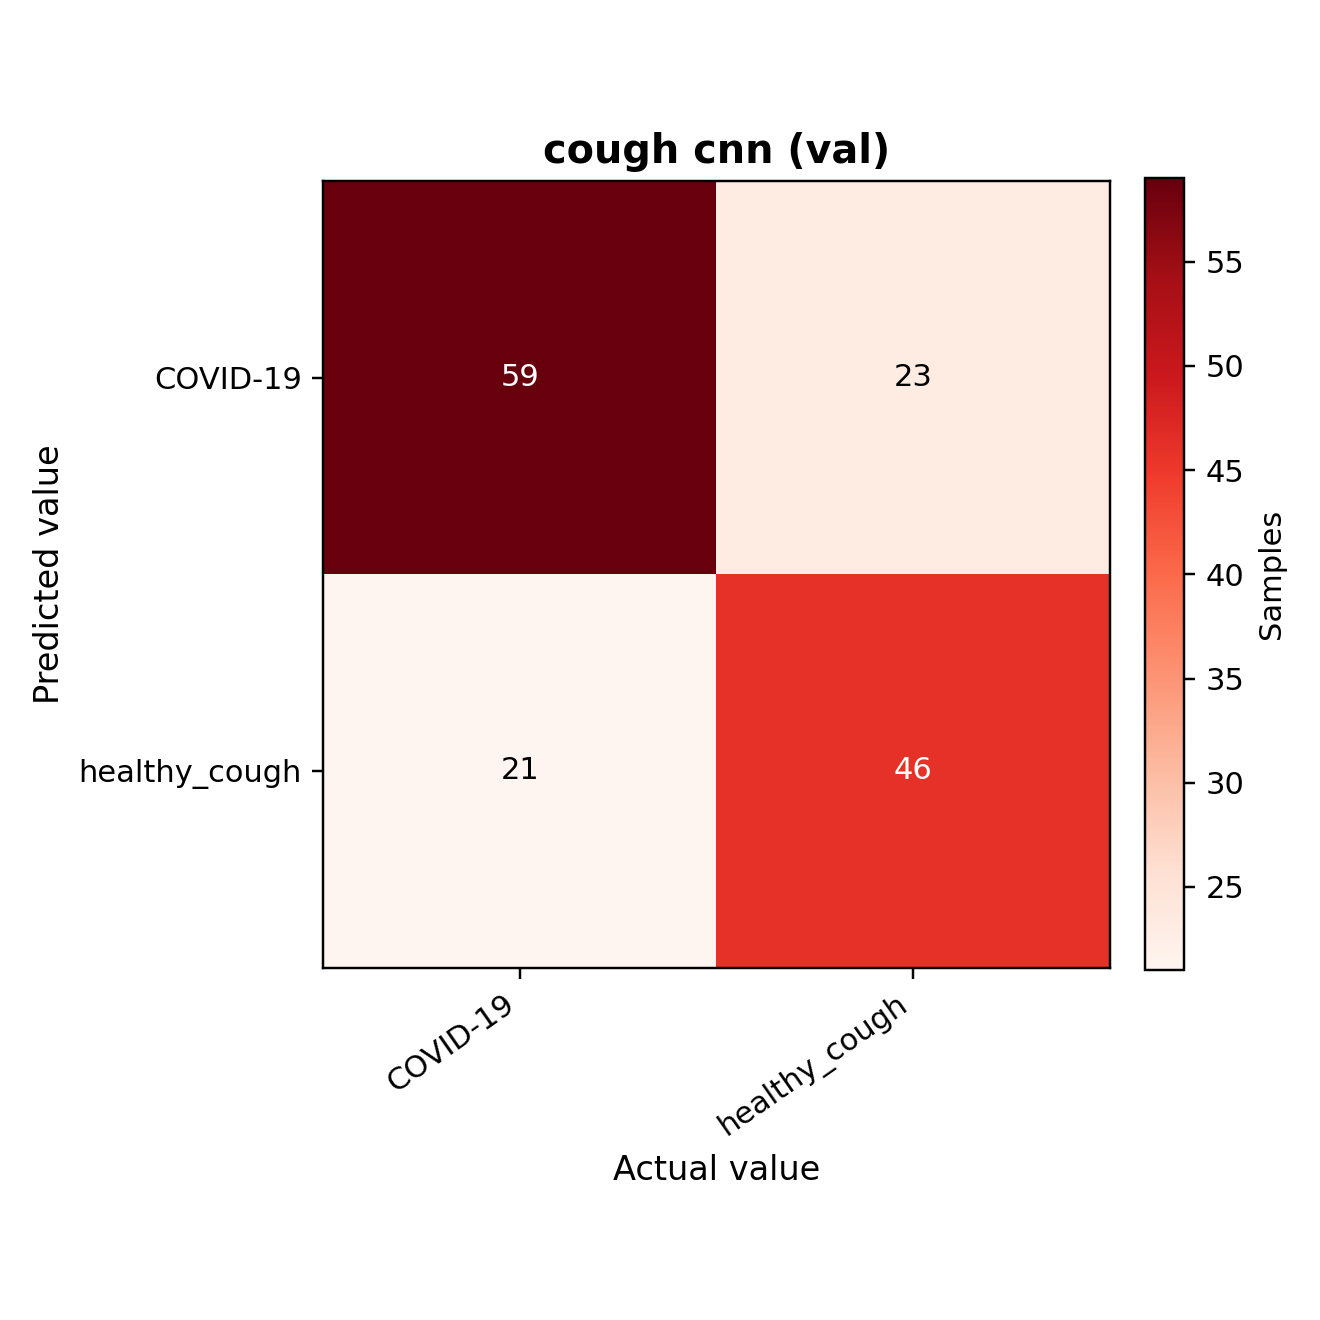
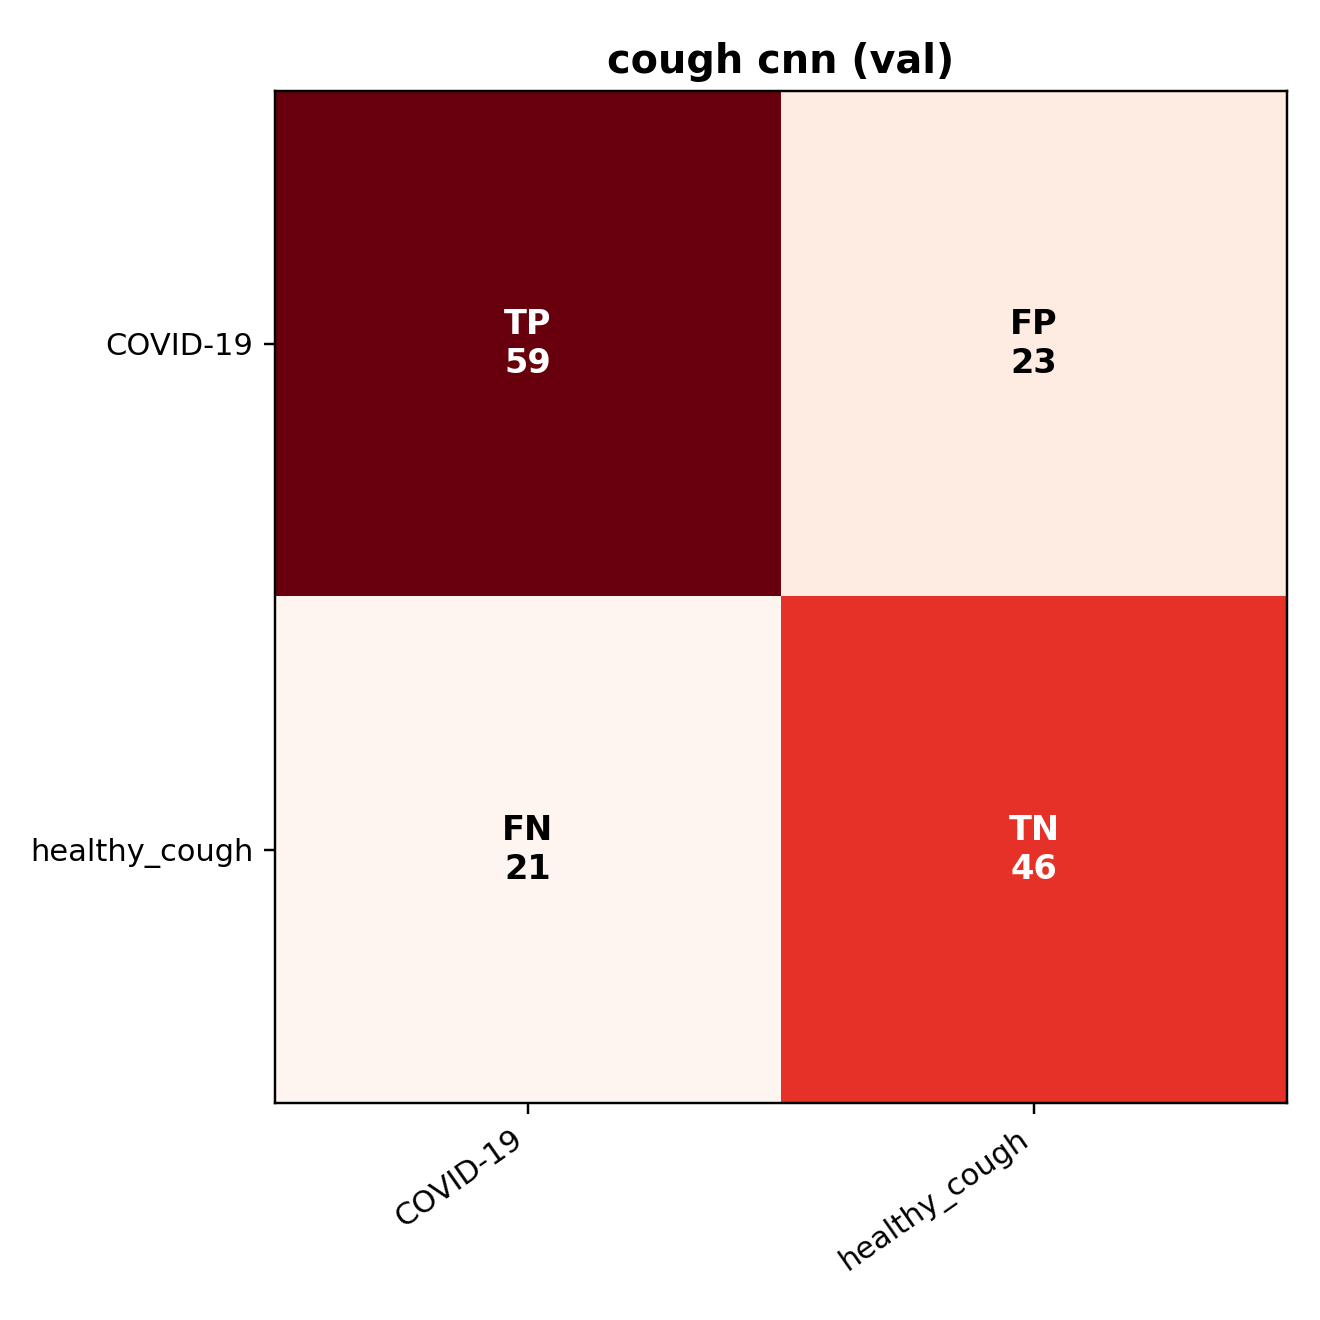
confusion matrix added

diff --git a/scripts/plot_confusion_matrices.py b/scripts/plot_confusion_matrices.py
@@ -56,6 +56,20 @@ def parse_args() -> argparse.Namespace:
         action="store_true",
         help="Display plots interactively in addition to saving.",
     )
+    parser.add_argument(
+        "--positive-label",
+        type=str,
+        default=None,
+        # help=(
+        #     "Positive class label for TP/FP/FN/TN annotations in binary matrices. "
+        #     "If omitted, the first label is used."
+        # ),
+    )
+    parser.add_argument(
+        "--no-binary-tags",
+        action="store_true",
+        help="Disable TP/FP/FN/TN annotations for binary matrices.",
+    )
     return parser.parse_args()
 
 
@@ -93,13 +107,19 @@ def render_matrix(
     output_path: Path,
     split: str,
     dpi: int,
+    positive_label: str | None,
+    show_binary_tags: bool,
 ) -> None:
     fig, ax = plt.subplots(figsize=figure_size(len(labels)))
     image = ax.imshow(matrix, cmap="Reds", interpolation="nearest")
 
     ax.set_title(f"{title} ({split})", fontsize=13, fontweight="bold")
-    ax.set_xlabel("Actual value", fontsize=11)
-    ax.set_ylabel("Predicted value", fontsize=11)
+    if len(labels) > 2:
+        ax.set_xlabel("Actual value", fontsize=11)
+        ax.set_ylabel("Predicted value", fontsize=11)
+    else:
+        ax.set_xlabel("")
+        ax.set_ylabel("")
 
     indices = np.arange(len(labels))
     ax.set_xticks(indices)
@@ -110,14 +130,32 @@ def render_matrix(
     max_value = matrix.max() if matrix.size else 0
     threshold = max_value / 2 if max_value > 0 else 0
 
+    is_binary = matrix.shape == (2, 2)
+    tag_map: dict[tuple[int, int], str] = {}
+    chosen_positive: str | None = None
+    if is_binary and show_binary_tags:
+        if positive_label is not None and positive_label in labels:
+            chosen_positive = positive_label
+        else:
+            chosen_positive = labels[0]
+        pos_idx = labels.index(chosen_positive)
+        neg_idx = 1 - pos_idx
+        tag_map = {
+            (pos_idx, pos_idx): "TP",
+            (pos_idx, neg_idx): "FP",
+            (neg_idx, pos_idx): "FN",
+            (neg_idx, neg_idx): "TN",
+        }
+
     for row in range(matrix.shape[0]):
         for col in range(matrix.shape[1]):
             value = int(matrix[row, col])
             color = "white" if value > threshold else "black"
-            ax.text(col, row, str(value), ha="center", va="center", color=color, fontsize=10)
-
-    cbar = fig.colorbar(image, ax=ax, fraction=0.046, pad=0.04)
-    cbar.ax.set_ylabel("Samples", rotation=90)
+            if (row, col) in tag_map:
+                text = f"{tag_map[(row, col)]}\n{value}"
+                ax.text(col, row, text, ha="center", va="center", color=color, fontsize=11, fontweight="bold")
+            else:
+                ax.text(col, row, str(value), ha="center", va="center", color=color, fontsize=10)
 
     fig.tight_layout()
     fig.savefig(output_path, dpi=dpi)
@@ -143,6 +181,8 @@ def main() -> None:
             output_path=output_path,
             split=args.split,
             dpi=args.dpi,
+            positive_label=args.positive_label,
+            show_binary_tags=not args.no_binary_tags,
         )
         generated.append(output_path)
         print(f"[OK] {output_path}")
